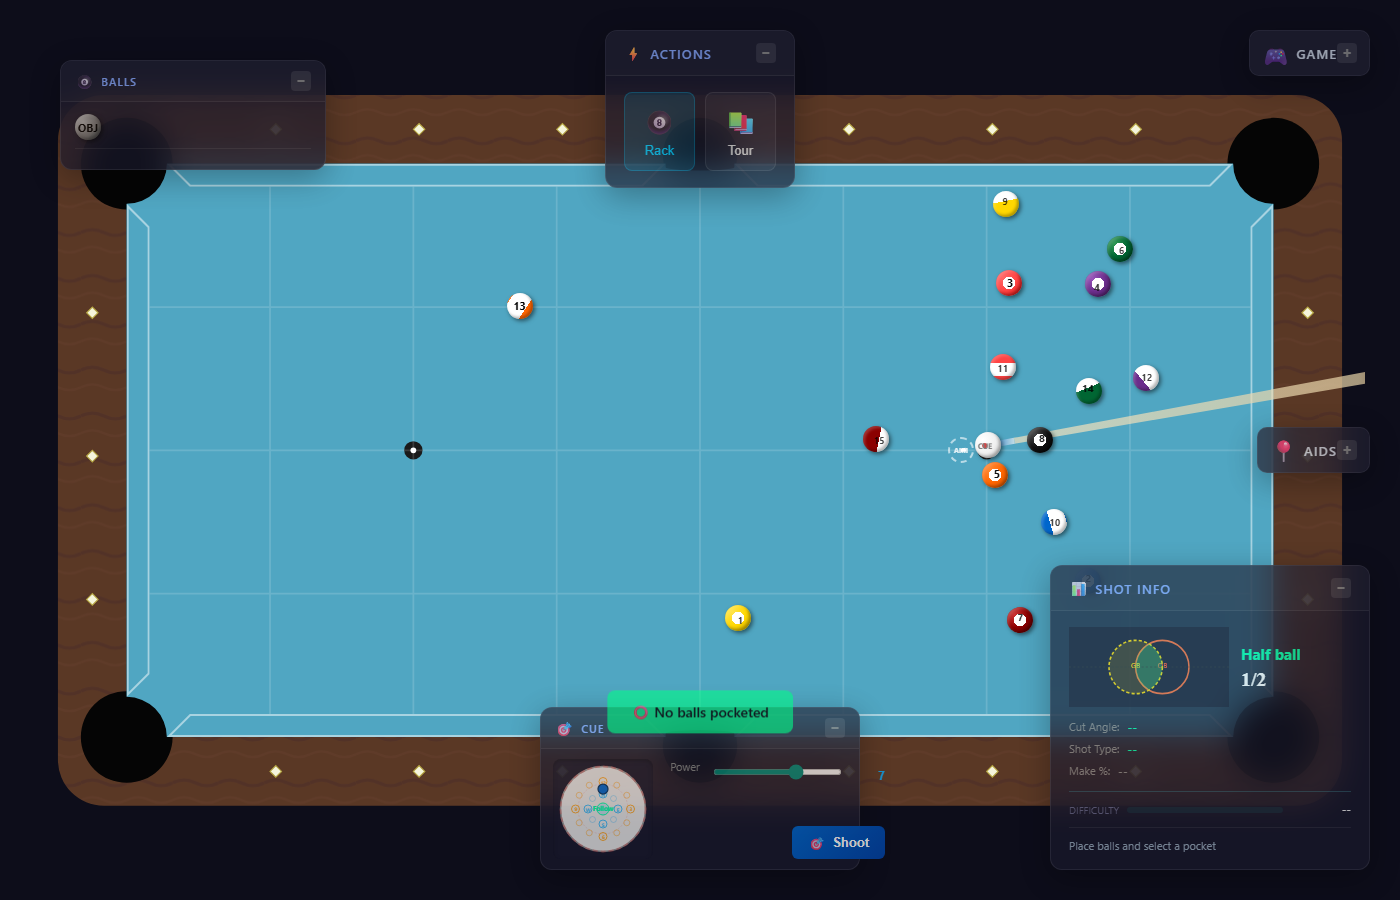
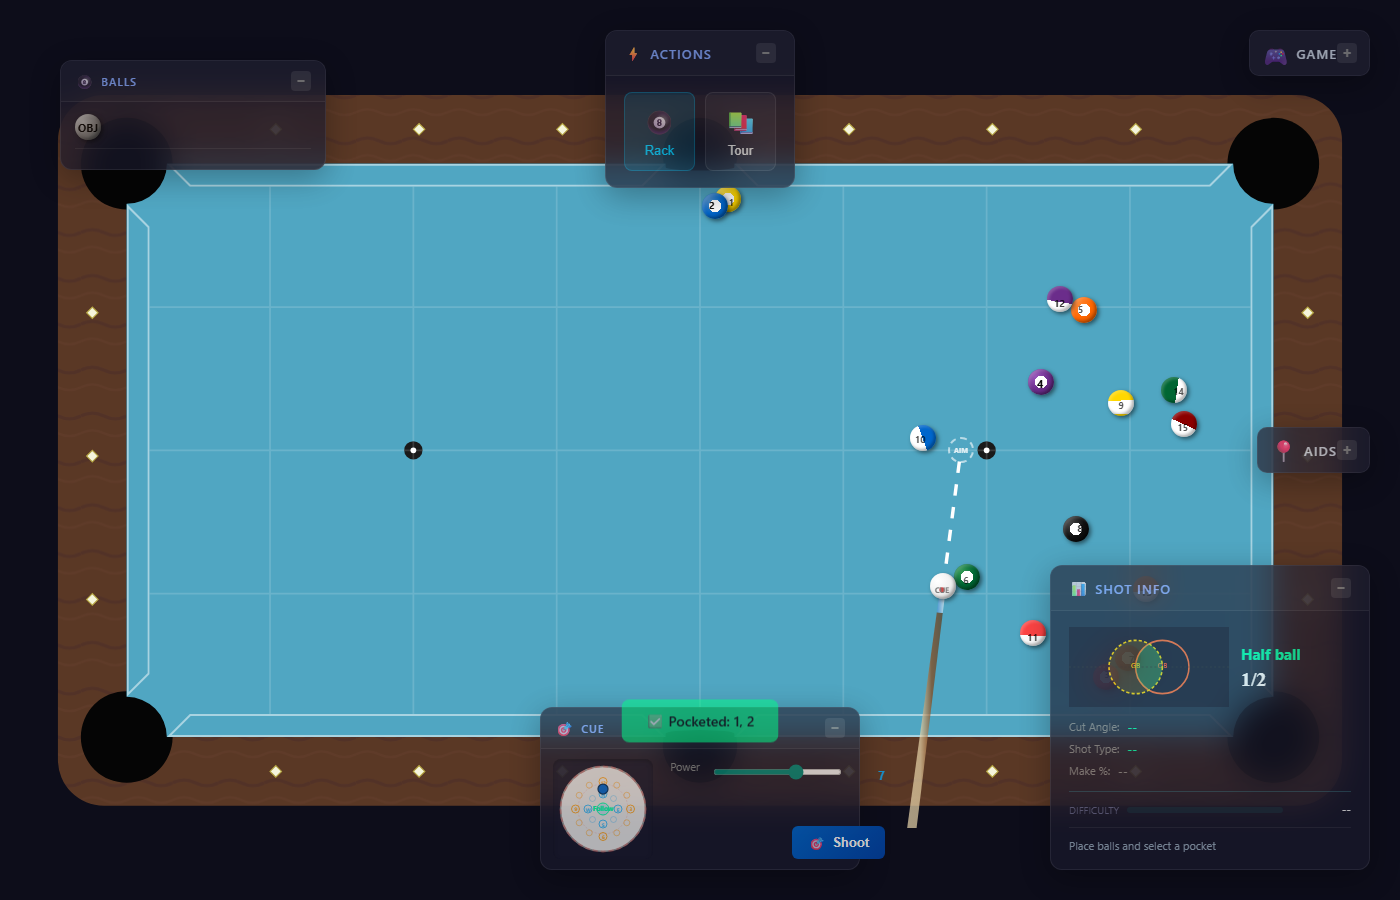
refactor(harness): one browser launcher for eleven scripts, and two scripts that could never run
The launch logic was copied into eleven harnesses; consolidating it onto
harness-browser.cjs exposed three copies that still defaulted to /usr/bin/chromium, so
render-heatmap/render-impacts/render-scenarios could not run here at all - the same bug
fixed in the other families earlier today. All eleven now use the one module (CJS, so
both the .cjs and ESM harnesses import it).

Two more scripts were dead on arrival, both pre-existing (verified against HEAD):
record-video.cjs carried two syntax errors - an unterminated string in its ffmpeg
drawtext escaping and an invalid token in its ffconcat path escaping - so it had never
parsed. Both are rewritten with named helpers instead of inline escape soup. Its
ffmpeg/ffconcat runtime behaviour is still unverified: that needs a real ffmpeg run.

Verified: every top-level script parses, and all five app-side harnesses pass through
the new launcher (6/6, 9/9, PASS, PASS, PASS, 96s).

Also: the doc-claim guard caught the plan's index.html size twice today - once for the
new spec, once for the DEBUG.state fields. Both corrected from measurement.

diff --git a/verify-consistency.js b/verify-consistency.js
@@ -2,7 +2,7 @@
 // the analytic solver rates makeable; this harness runs each through the
 // real physics and asserts the intended ball drops in the intended pocket.
 // Failures mean the simulation contradicts what the app tells the player.
-import { chromium } from 'playwright-core'
+import { launchHarnessBrowser } from './harness-browser.cjs'
 import { readFileSync } from 'fs'
 import { join, dirname } from 'path'
 import { pathToFileURL, fileURLToPath } from 'url'
@@ -11,11 +11,8 @@ const __dirname = dirname(fileURLToPath(import.meta.url))
 const indexUrl = pathToFileURL(join(__dirname, 'index.html')).href
 const battery = JSON.parse(readFileSync(join(__dirname, 'tests', 'battery.json'), 'utf-8'))
 
-// CHROMIUM_PATH wins when set (a system browser); otherwise playwright-core uses the
-// browser it manages. The old default of '/usr/bin/chromium' made these Linux-only.
-const launchOptions = { args: ['--no-sandbox', '--disable-gpu'] }
-if (process.env.CHROMIUM_PATH) launchOptions.executablePath = process.env.CHROMIUM_PATH
-const browser = await chromium.launch(launchOptions)
+// CHROMIUM_PATH wins when set; otherwise playwright-core resolves the browser it manages.
+const browser = await launchHarnessBrowser()
 const context = await browser.newContext()
 await context.addInitScript(() => localStorage.setItem('ace-tour-completed', 'true'))
 const page = await context.newPage()

diff --git a/verify-ux-fixes.js b/verify-ux-fixes.js
@@ -2,18 +2,15 @@
 //  #1 Shot Info panel visible by default and its fields populate.
 //  #3 A shared state link does NOT auto-rack (only configured balls present).
 //  #2 A ball can be dragged out of the rack onto the table.
-import { chromium } from 'playwright-core'
+import { launchHarnessBrowser } from './harness-browser.cjs'
 import { join, dirname } from 'path'
 import { pathToFileURL, fileURLToPath } from 'url'
 
 const __dirname = dirname(fileURLToPath(import.meta.url))
 const indexUrl = pathToFileURL(join(__dirname, 'index.html')).href
 
-// CHROMIUM_PATH wins when set (a system browser); otherwise playwright-core uses the
-// browser it manages. The old default of '/usr/bin/chromium' made these Linux-only.
-const launchOptions = { args: ['--no-sandbox', '--disable-gpu'] }
-if (process.env.CHROMIUM_PATH) launchOptions.executablePath = process.env.CHROMIUM_PATH
-const browser = await chromium.launch(launchOptions)
+// CHROMIUM_PATH wins when set; otherwise playwright-core resolves the browser it manages.
+const browser = await launchHarnessBrowser()
 const context = await browser.newContext()
 await context.addInitScript(() => localStorage.setItem('ace-tour-completed', 'true'))
 const page = await context.newPage()

diff --git a/verify-sim-make.js b/verify-sim-make.js
@@ -9,18 +9,15 @@
 // continue; // scratch = miss`), so it reported 51% - correct for that shot, which is
 // not an easy one. With draw the cue pulls back and the same pot reports 100%. The
 // assertions below are unchanged.
-import { chromium } from 'playwright-core'
+import { launchHarnessBrowser } from './harness-browser.cjs'
 import { join, dirname } from 'path'
 import { pathToFileURL, fileURLToPath } from 'url'
 
 const __dirname = dirname(fileURLToPath(import.meta.url))
 const indexUrl = pathToFileURL(join(__dirname, 'index.html')).href
 
-// CHROMIUM_PATH wins when set (a system browser); otherwise playwright-core uses the
-// browser it manages. The old default of '/usr/bin/chromium' made these Linux-only.
-const launchOptions = { args: ['--no-sandbox', '--disable-gpu'] }
-if (process.env.CHROMIUM_PATH) launchOptions.executablePath = process.env.CHROMIUM_PATH
-const browser = await chromium.launch(launchOptions)
+// CHROMIUM_PATH wins when set; otherwise playwright-core resolves the browser it manages.
+const browser = await launchHarnessBrowser()
 const context = await browser.newContext()
 await context.addInitScript(() => localStorage.setItem('ace-tour-completed', 'true'))
 const page = await context.newPage()

diff --git a/verify-animation.js b/verify-animation.js
@@ -1,16 +1,13 @@
 // One-off verification for the fixed-timestep animation refactor.
-import { chromium } from 'playwright-core'
+import { launchHarnessBrowser } from './harness-browser.cjs'
 import { join, dirname } from 'path'
 import { pathToFileURL, fileURLToPath } from 'url'
 
 const __dirname = dirname(fileURLToPath(import.meta.url))
 const indexUrl = pathToFileURL(join(__dirname, 'index.html')).href
 
-// CHROMIUM_PATH wins when set (a system browser); otherwise playwright-core uses the
-// browser it manages. The old default of '/usr/bin/chromium' made these Linux-only.
-const launchOptions = { args: ['--no-sandbox', '--disable-gpu'] }
-if (process.env.CHROMIUM_PATH) launchOptions.executablePath = process.env.CHROMIUM_PATH
-const browser = await chromium.launch(launchOptions)
+// CHROMIUM_PATH wins when set; otherwise playwright-core resolves the browser it manages.
+const browser = await launchHarnessBrowser()
 const context = await browser.newContext()
 await context.addInitScript(() => localStorage.setItem('ace-tour-completed', 'true'))
 const page = await context.newPage()

diff --git a/render-heatmap.js b/render-heatmap.js
@@ -8,7 +8,7 @@
 //   node render-heatmap.js --ob 70,30 --pocket corner-br [--name shot]
 //        [--force 6] [--sigma 1.5] [--n 40] [--step 2.5]
 //        [--others "9:60,22;3:40,18"] [--no-png]
-import { chromium } from 'playwright-core'
+import { launchHarnessBrowser } from './harness-browser.cjs'
 import { mkdirSync, writeFileSync } from 'fs'
 import { join, dirname } from 'path'
 import { fileURLToPath } from 'url'
@@ -129,7 +129,7 @@ mkdirSync(out, { recursive: true })
 writeFileSync(join(out, `${name}.svg`), svg)
 
 if (wantPng) {
-  const browser = await chromium.launch({ executablePath: process.env.CHROMIUM_PATH || '/usr/bin/chromium', args: ['--no-sandbox', '--disable-gpu'] })
+  const browser = await launchHarnessBrowser()
   const page = await browser.newPage()
   await page.setContent(`<body style="margin:0">${svg}</body>`)
   await page.evaluate(() => { const s = document.querySelector('svg'); s.removeAttribute('width'); s.removeAttribute('height'); s.style.width = '1600px'; s.style.height = 'auto'; s.style.display = 'block' })

diff --git a/render-scenarios.js b/render-scenarios.js
@@ -13,7 +13,7 @@
 // to a manual export. --table-only crops the info panels off; --bg recolors
 // the page background (e.g. white for print).
 
-import { chromium } from 'playwright-core'
+import { launchHarnessBrowser } from './harness-browser.cjs'
 import { readFileSync, writeFileSync, mkdirSync } from 'fs'
 import { resolve, join } from 'path'
 import { pathToFileURL, fileURLToPath } from 'url'
@@ -108,7 +108,7 @@ function applyPrintTheme(svg) {
 // ---- main ----
 const indexUrl = pathToFileURL(join(__dirname, 'index.html')).href
 
-const browser = await chromium.launch({ executablePath: process.env.CHROMIUM_PATH || '/usr/bin/chromium', args: ['--no-sandbox', '--disable-gpu'] })
+const browser = await launchHarnessBrowser()
 const context = await browser.newContext({ acceptDownloads: true })
 // suppress the first-run guided tour, whose overlay intercepts clicks
 await context.addInitScript(() => localStorage.setItem('ace-tour-completed', 'true'))

diff --git a/render-impacts.js b/render-impacts.js
@@ -12,7 +12,7 @@
 //        --max-frames <n> (impact frames cap, default 8), --no-gif,
 //        --engine js (fall back to the in-page JS sim instead of the wasm core)
 
-import { chromium } from 'playwright-core'
+import { launchHarnessBrowser } from './harness-browser.cjs'
 import gifencPkg from 'gifenc'
 const { GIFEncoder, quantize, applyPalette } = gifencPkg
 import pngjsPkg from 'pngjs'
@@ -222,7 +222,7 @@ async function captureFrame(page, scalePage) {
 
 // ---- main ----
 const indexUrl = pathToFileURL(join(__dirname, 'index.html')).href
-const browser = await chromium.launch({ executablePath: process.env.CHROMIUM_PATH || '/usr/bin/chromium', args: ['--no-sandbox', '--disable-gpu'] })
+const browser = await launchHarnessBrowser()
 const context = await browser.newContext()
 await context.addInitScript(() => localStorage.setItem('ace-tour-completed', 'true'))
 const page = await context.newPage()

diff --git a/NEXT_STEPS.md b/NEXT_STEPS.md
@@ -258,6 +258,21 @@ was open only because the identifier `naturalAngle` never existed.
   DOM/markup as runtime behaviour.
 ## Open gaps I noticed (not in the user's list)
 
+- [x] **One browser launcher, eleven harnesses, and two scripts that could never run.** The
+      launch logic (CHROMIUM_PATH or let playwright-core resolve) was copied into eleven scripts;
+      consolidating it onto `harness-browser.cjs` showed three of the copies still defaulted to
+      `/usr/bin/chromium`, so `render-heatmap.js`, `render-impacts.js` and `render-scenarios.js`
+      could not run here at all - the same bug fixed in the other families earlier in the day.
+      All eleven now go through the one module and every top-level script parses.
+      Two more scripts were found dead on arrival, both pre-existing (verified against HEAD, not
+      my edits): `record-video.cjs` carried two syntax errors - an unterminated string in its
+      ffmpeg `drawtext` escaping and an invalid token in its ffconcat path escaping - so it had
+      never parsed, let alone run. Both expressions are rewritten with named helpers instead of
+      inline escape soup. Its ffmpeg/ffconcat *runtime* behaviour is still unverified: that needs
+      a real ffmpeg run, which this box cannot do headlessly here.
+      On the "delete what the repo marks as dead" item: measured, nothing is left. The only two
+      hits for DEAD CODE / commented out / kept for reference / legacy are legitimate comments,
+      and the 269-line marked block went with the engine cutover.
 - [x] **CI now runs the app-side harnesses, and two guards stop the drift that produced five wrong
       claims in one pass.** `verify-app.js` spawns the five harnesses and judges their *printed*
       verdicts (the same reason `verify-core.js` exists: these abort in libuv teardown, so exit
@@ -366,7 +381,7 @@ was open only because the identifier `naturalAngle` never existed.
   **40/40**, page errors **0**, duplicate ids **none**.
 - Core: **build 0.43 s**, `cargo test` **5/5**, battery **8/8**.
 - The browser `verify-*.js` scripts run on Windows now (portable browser lookup): `verify-consistency` 9/9, `verify-animation` PASS, `verify-ux-fixes` PASS; `verify-spin` and `verify-sim-make` report FAIL - see the open items.
-- Files: 77 tracked; `index.html` **10394 lines / 508 KB** with ~100 KB of embedded wasm
+- Files: 77 tracked; `index.html` **10401 lines / 509 KB** with ~100 KB of embedded wasm
   (11174 / 552 KB before the JS fallback and its dead neighbours went; this line is verified
   against the file by `verify-doc-claims.js`).
 - The harnesses write screenshots into the repo, including `verify-after-break.png`, which is
